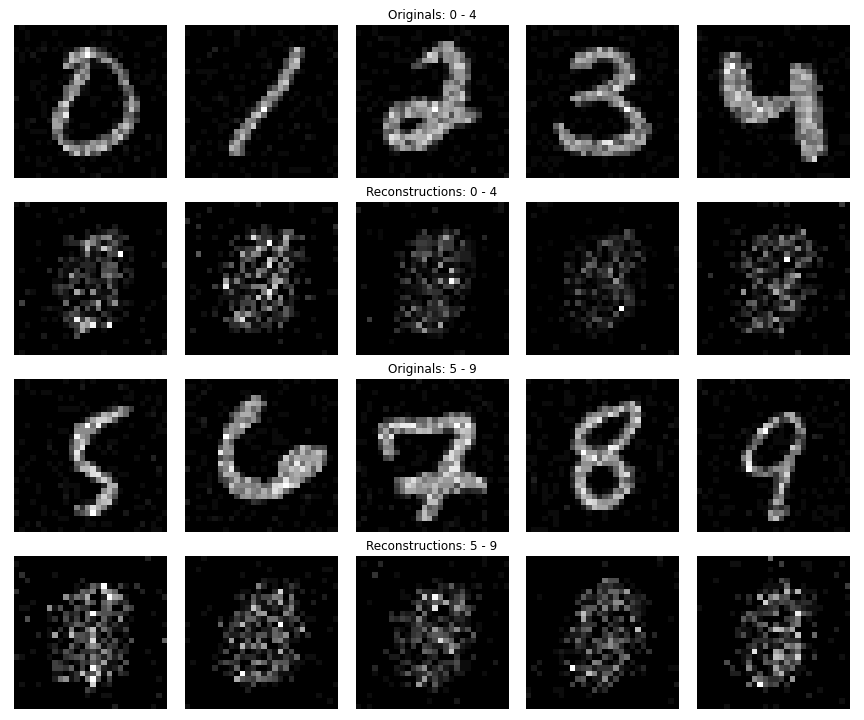
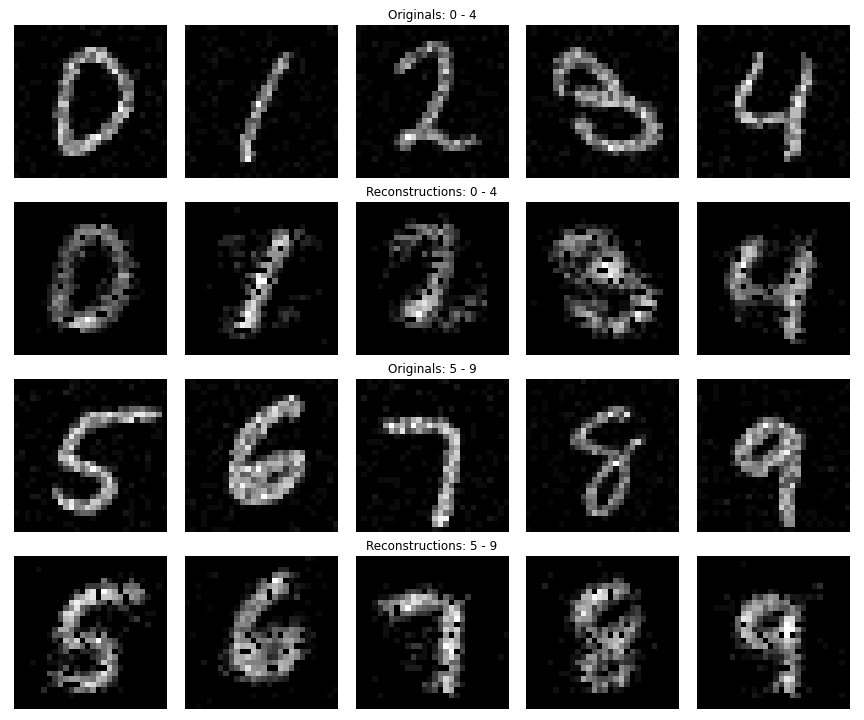
working version

diff --git a/image_to_image.py b/image_to_image.py
@@ -18,85 +18,53 @@ class SAE(nn.Module):
         #define gradient
         spike_grad = surrogate.fast_sigmoid(slope=25)
           
-        #convolution (encoder) - Input size: [8, 1, 28, 28]
         self.conv1 = nn.Conv2d(depth, cp["channels_1"], (cp["filter_1"], cp["filter_1"]))
         self.lif_conv1 = snn.Leaky(beta=beta, spike_grad=spike_grad, threshold = threshold)
-        # conv1 output size: [8, 12, 26, 26]
         self.conv2 = nn.Conv2d(cp["channels_1"], cp["channels_2"], (cp["filter_2"], cp["filter_2"]))
         self.lif_conv2 = snn.Leaky(beta=beta, spike_grad=spike_grad, threshold = threshold)
-        # conv2 output size: [8, 64, 24, 24]  
-
-        # recurrent (latent)
         self.ff_in = nn.Linear(num_conv2, num_rec) # 64x24x24 (12288) -> 100
         self.ff_rec = nn.Linear(num_rec, num_rec)  # 100 -> 100 (same nodes)
         self.net_rec = snn.Leaky(beta=beta, spike_grad=spike_grad, reset_mechanism="zero", threshold = threshold)
-        
-        self.ff_out = nn.Linear(num_rec, num_conv2)
-
-
-        # needs to be [8, 64, 24, 24] format for convTrans
-        # convolution (decoder)
-        
+        self.ff_out = nn.Linear(num_rec, num_conv2)     
         self.deconv2 = nn.ConvTranspose2d(cp["channels_2"], cp["channels_1"], (cp["filter_2"], cp["filter_2"])) 
         self.lif_deconv2 = snn.Leaky(beta=beta, spike_grad=spike_grad, threshold = threshold)
-        # deconv2 output size: [8, 12, 26, 26]  
-        
         self.reconstruction = nn.ConvTranspose2d(cp["channels_1"], depth, (cp["filter_1"], cp["filter_1"]))
         self.lif_reconstruction = snn.Leaky(beta=beta, spike_grad=spike_grad, threshold = threshold)
-        # recontruction should be [8, 3, 28, 28]
-        
+        #self.lif_out = snn.Leaky(beta=beta, spike_grad=spike_grad, threshold = threshold)
         
     def forward(self, x, recorded_vars=None):
-        num_rec, num_conv2, noise_amp, channels_1, conv1_size, channels_2, conv2_size = self.network_params["num_rec"], self.network_params["num_conv2"], self.network_params["noise_amplitude"], self.convolution_params["channels_1"], self.convolution_params["conv1_size"], self.convolution_params["channels_2"], self.convolution_params["conv2_size"]
+        num_rec, noise_amp, channels_2, conv2_size = self.network_params["num_rec"], self.network_params["noise_amplitude"], self.convolution_params["channels_2"], self.convolution_params["conv2_size"]
 
         try:
           x = x.type(torch.cuda.FloatTensor)
         except:
           x = x.type(torch.FloatTensor)
         
-        # Initialize hidden states and outputs at t=0
         batch_size = len(x[0])       
         mem_conv1 = self.lif_conv1.init_leaky()
         mem_conv2 = self.lif_conv2.init_leaky()
         mem_rec = self.net_rec.init_leaky()
         mem_deconv2 = self.lif_deconv2.init_leaky()
         mem_reconstruction = self.lif_reconstruction.init_leaky()
-        spk_conv1 = torch.zeros(batch_size, channels_1, conv1_size, conv1_size, device = self.device)
-        spk_conv2 = torch.zeros(batch_size, channels_2, conv2_size, conv2_size, device = self.device)
-        spk_deconv1 = torch.zeros(batch_size, channels_2, conv2_size, conv2_size, device = self.device)
-        spk_deconv2 = torch.zeros(batch_size, channels_1, conv1_size, conv1_size, device = self.device)
         spk_rec = torch.zeros(batch_size, num_rec, device = self.device)
-        spk_reconstruction = torch.zeros(batch_size, channels_2, conv2_size, conv2_size, device = self.device)
-        
         spk_outs, spk_recs, mem_outs, mem_recs = [], [], [], []
-        
-        # Record latent and output layer
-        if recorded_vars:
-            recorded = {key: [] for key in recorded_vars}
 
         for timestep in range(self.time_params["num_timesteps"]):
-            #print(f"Size of input: {x.shape}")
-            # convolution (encoder) - layer 1
             curr_conv1 = self.conv1(x[timestep])
             spk_conv1, mem_conv1 = self.lif_conv1(curr_conv1, mem_conv1)
             mem_conv1 += noise_amp*torch.randn(mem_conv1.shape, device = self.device)
             
-            # convolution (encoder) - layer 2
             curr_conv2 = self.conv2(spk_conv1)
             spk_conv2, mem_conv2 = self.lif_conv2(curr_conv2, mem_conv2)
             mem_conv2 += noise_amp*torch.randn(mem_conv2.shape, device = self.device)
             
-            #recurrent layer (encoder)
             curr_in = self.ff_in(spk_conv2.view(batch_size, -1))
             curr_rec = self.ff_rec(spk_rec)
             curr_total = curr_in + self.recurrence*curr_rec
             spk_rec, mem_rec = self.net_rec(curr_total, mem_rec) #can set curr_total to curr_in, param in front
-
             mem_rec += noise_amp*torch.randn(mem_rec.shape, device = self.device)
-            
             curr_out = self.ff_out(spk_rec)
-            
-            # convolution (decoder) - undo layer 2
+
             curr_deconv2 = self.deconv2(curr_out.view(curr_out.size(0), channels_2, conv2_size, conv2_size))
             spk_deconv2, mem_deconv2 = self.lif_conv2(curr_deconv2, mem_deconv2)
             mem_deconv2 += noise_amp*torch.randn(mem_deconv2.shape, device = self.device)
@@ -106,23 +74,9 @@ class SAE(nn.Module):
             spk_reconstruction, mem_reconstruction = self.lif_reconstruction(curr_reconstruction, mem_reconstruction)
             mem_reconstruction += noise_amp*torch.randn(mem_reconstruction.shape, device = self.device)
             
-            ''' Noise if needed
-            #mem_latent += noise_amp*torch.randn(mem_latent.shape).to(self.device)
-            '''
-            
             spk_recs.append(spk_rec)
             spk_outs.append(spk_reconstruction)
-            #mem_recs.append(mem_rec)
-            #mem_outs.append(mem_reconstruction)
 
-            if recorded_vars:
-                for key in recorded:
-                    recorded[key].append(locals()[key])
-        
-        if recorded_vars:
-            for key, item in recorded.items():
-                recorded[key] = torch.stack(item)
-            return recorded
         return torch.stack(spk_recs), torch.stack(spk_outs)
     
     
@@ -155,14 +109,9 @@ class CAE(nn.Module):
         # Convolution (encoder) - Input size: [batch_size, depth, 28, 28]
         self.conv1 = nn.Conv2d(depth, cp["channels_1"], (cp["filter_1"], cp["filter_1"]))
         self.conv2 = nn.Conv2d(cp["channels_1"], cp["channels_2"], (cp["filter_2"], cp["filter_2"]))
-        
-        # Recurrent (latent)
         self.ff_in = nn.Linear(num_conv2, num_rec)  # 64x24x24 (12288) -> 100
         self.ff_rec = nn.Linear(num_rec, num_rec)   # 100 -> 100 (same nodes)
-        
         self.ff_out = nn.Linear(num_rec, num_conv2)
-        
-        # Convolution (decoder)
         self.deconv2 = nn.ConvTranspose2d(cp["channels_2"], cp["channels_1"], (cp["filter_2"], cp["filter_2"]))
         self.reconstruction = nn.ConvTranspose2d(cp["channels_1"], depth, (cp["filter_1"], cp["filter_1"]))
         

diff --git a/train_network.py b/train_network.py
@@ -1,4 +1,4 @@
-from helpers import get_poisson_inputs, rmse_count_loss
+from helpers import get_poisson_inputs, rmse_count_loss, nmse_count_loss
 import torch
 import wandb
 from brian2 import *
@@ -11,11 +11,11 @@ def train_network(network, train_loader, test_loader, input_specs, train_specs):
     print(startTime)
     device = train_specs["device"]
     num_epochs = train_specs["num_epochs"]
-    early_stop = train_specs["early_stop"]
     train_logging_freq = ceil(0.1*len(train_loader))
     test_logging_freq = ceil(0.1*len(test_loader))
     print(f"Scaler Value: {train_specs["scaler"]}")
-    loss_fn = rmse_count_loss(lambda_rate=train_specs["lambda_rate"],lambda_weights=None)
+    
+    loss_fn = nmse_count_loss(ntype=train_specs["norm_type"])
     
     optimizer = torch.optim.Adam(network.parameters(), lr=train_specs["lr"], betas=(0.9, 0.999))
     
@@ -30,23 +30,13 @@ def train_network(network, train_loader, test_loader, input_specs, train_specs):
 
         for i, (train_inputs, train_labels) in enumerate(train_loader, 1): #something here takes 30 seconds
             iterTime = datetime.now() 
-            if i == early_stop+1:
-                print("Stopped early")
-                break
-            #print(train_inputs.shape)
-            #train_inputs = get_poisson_inputs(train_inputs, **input_specs).to(device)
+
             train_inputs = train_inputs.transpose(0,1).to(device)
-            
-            #print(train_inputs.shape)
             train_spk_recs, train_spk_outs  = network(train_inputs)
 
-            train_loss = loss_fn(train_spk_recs, train_spk_outs, train_inputs)*train_specs["scaler"]
-            #train_loss = F.mse_loss(torch.sum(train_spk_outs, 0), torch.sum(train_inputs, 0))
-            
+            train_loss = loss_fn(train_spk_outs, train_inputs, train_spk_recs)#*train_specs["scaler"]#/loss_fn(train_spk_outs.sum(0), torch.zeros_like(train_inputs.sum(0)))
             train_loss.backward()
-
             optimizer.step()
-
             train_running_loss += train_loss.item()
             optimizer.zero_grad()
             
@@ -59,26 +49,21 @@ def train_network(network, train_loader, test_loader, input_specs, train_specs):
         print(f"\nTesting - {datetime.now()}")
         with torch.no_grad():
             for j, (test_inputs, test_labels) in enumerate(test_loader, 1):
-                if j == early_stop+1:
-                    print("Stopped early")
-                    break
                 test_inputs = test_inputs.transpose(0,1).to(device)
                 test_spk_recs, test_spk_outs  = network(test_inputs)
-                test_loss = loss_fn(test_spk_recs, test_spk_outs, test_inputs)*train_specs["scaler"]
+                test_loss = loss_fn(test_spk_outs, test_inputs, test_spk_recs)#*train_specs["scaler"]#/loss_fn(test_spk_outs.sum(0), torch.zeros_like(test_inputs.sum(0)))
                 test_running_loss += test_loss.item()
                 
                 if j % test_logging_freq == 0:
                     print(f'[{epoch}/{num_epochs}, {j}/{len(test_loader)}]')
                     epoch_testing_loss.append(test_running_loss/test_logging_freq)
-                    
                     test_running_loss = 0
 
         print(f'Testing Loss: {epoch_testing_loss[-1]:.4f} - Epoch Time: {datetime.now()-epochTime}')
         wandb.log({"Testing Loss": epoch_testing_loss[-1]})
 
     print(f'\nTraining and Testing Finished - Time: {datetime.now() - startTime}')
-    return network, epoch_training_loss, epoch_testing_loss, epoch_training_loss[-1], epoch_testing_loss[-1]#, \
-        #features, all_labs, all_decs, all_orig_ims
+    return network, epoch_training_loss, epoch_testing_loss, epoch_training_loss[-1], epoch_testing_loss[-1]
     
 def train_network_ns(network, train_loader, test_loader, train_specs):
     startTime = datetime.now()
@@ -87,7 +72,7 @@ def train_network_ns(network, train_loader, test_loader, train_specs):
     num_epochs = train_specs["num_epochs"]
     train_logging_freq = ceil(0.1*len(train_loader))
     test_logging_freq = ceil(0.1*len(test_loader))
-    loss_func = torch.nn.MSELoss()
+    loss_fn = nmse_count_loss(ntype=train_specs["norm_type"])
     optimizer = torch.optim.Adam(network.parameters(), lr=train_specs["lr"], betas=(0.9, 0.999))
     
     epoch_training_loss = [];
@@ -103,7 +88,9 @@ def train_network_ns(network, train_loader, test_loader, train_specs):
             iterTime = datetime.now() 
             train_inputs = train_inputs.to(device)
             train_latent, train_outputs  = network(train_inputs)
-            train_loss = loss_func(train_inputs, train_outputs)
+            
+            
+            train_loss = loss_fn(train_outputs, train_inputs)
             train_loss.backward()
             optimizer.step()
             train_running_loss += train_loss.item()
@@ -120,7 +107,7 @@ def train_network_ns(network, train_loader, test_loader, train_specs):
             for j, (test_inputs, test_labels) in enumerate(test_loader, 1):
                 test_inputs = test_inputs.to(device)
                 train_latent,test_outputs  = network(test_inputs)
-                test_loss = loss_func(test_inputs, test_outputs)
+                test_loss = loss_fn(test_outputs, test_inputs)
                 test_running_loss += test_loss.item()
                 
                 if j % test_logging_freq == 0:

diff --git a/main.py b/main.py
@@ -28,7 +28,7 @@ def main():
     torch.backends.cudnn.benchmark = True #TURN OFF WHEN CHANGING ARCHITECTURE    
 
     run = wandb.init()
-    run.name = f"{wandb.config.rate_on} Hz_{wandb.config.num_rec} Hz_{wandb.config.noise}"
+    run.name = f"{wandb.config.rate_on} Hz_{wandb.config.norm_type} Hz_{wandb.config.noise}"
     """## Define network architecutre and parameters"""
     network_params, input_specs, train_specs = {}, {}, {}
     
@@ -50,10 +50,10 @@ def main():
     train_specs["batch_size"] = wandb.config.bs
     train_specs["subset_size"] = wandb.config.subset_size
     train_specs["num_workers"] = wandb.config.num_workers
+    train_specs["norm_type"] = wandb.config.norm_type
     num_rec = wandb.config.num_rec
     
     train_specs["scaler"] = abs(1/((wandb.config.rate_on-wandb.config.rate_off)*(0.001*input_specs["total_time"]/ms))) if wandb.config.rate_on != wandb.config.rate_off else 100000
-    
     
     noise = wandb.config.noise
     recurrence = wandb.config.recurrence
@@ -214,7 +214,7 @@ def main():
     fig.tight_layout()
     fig.savefig("figures/rasters.png") 
     
-    umap_file = umap_plt("./datafiles/"+run.name+".csv")
+    umap_file, sil_score, db_score = umap_plt("./datafiles/"+run.name+".csv")
     
     wandb.log({"Test Loss": final_test_loss,
                 "Results Grid": wandb.Image("figures/result_summary.png"),
@@ -222,8 +222,6 @@ def main():
                 "Spike Animation": wandb.Video(f"figures/spike_mnistrec_{labels}.gif", fps=4, format="gif"),
                 "Raster": wandb.Image("figures/rasters.png")
                 })
-    
-    
     
     del network, train_loss, test_loss, final_train_loss, final_test_loss, \
         features, all_labs, all_decs, all_orig_ims, \
@@ -254,12 +252,13 @@ if __name__ == '__main__':
                           "rate_on": {'values': [75]},
                           "rate_off": {'values': [1]},
                           "num_workers": {'values': [0]},
-                          "num_rec": {'values': [100]}
+                          "num_rec": {'values': [100]},
+                          "norm_type": {'values': ["norm"]}
                           }
           }
   else:
       sweep_config = { #REMEMBER TO CHANGE RUN NAME
-          'name': f'Code Layer Neuron Count (25-50) {date}',
+          'name': f'Neuron Count Analysis (2 - 36864) {date}',
           'method': 'grid',
           'metric': {'name': 'Test Loss',
                       'goal': 'minimize'   
@@ -269,11 +268,12 @@ if __name__ == '__main__':
                           'epochs': {'values': [9]},
                           "subset_size": {'values': [10]},
                           "recurrence": {'values': [1]}, #1, 0.1, 0.5, 0, 1.25, 1.5, 1.75, 2
-                          "noise": {'values': [0]},
-                          "rate_on": {'values': [75]}, # 25, 50, 75, 100, 125
+                          "noise": {'values': [0]}, #0, 0.1, 0.2, 0.3, 0.4, 0.5, 0.6, 0.7, 0.8, 0.9, 1.0
+                          "rate_on": {'values': [75]},
                           "rate_off": {'values': [1]},
                           "num_workers": {'values': [0]},
-                          "num_rec": {'values': [25, 30, 35, 40, 45, 50]} #
+                          "num_rec": {'values': [2, 100, 1000, 10000, 20000, 36864]},
+                          "norm_type": {'values': ["norm"]} #
                           }
           }
   

diff --git a/main_ns.py b/main_ns.py
@@ -28,7 +28,7 @@ def main_ns():
     torch.backends.cudnn.benchmark = True #TURN OFF WHEN CHANGING ARCHITECTURE    
 
     run = wandb.init()
-    run.name = f"{wandb.config.rate_on} Hz_{wandb.config.num_rec} Hz_{wandb.config.noise}"
+    run.name = f"{wandb.config.rate_on} Hz_{wandb.config.norm_type} Hz_{wandb.config.noise}"
     """## Define network architecutre and parameters"""
     network_params, input_specs, train_specs, convolution_params = {}, {}, {}, {}
     
@@ -56,6 +56,8 @@ def main_ns():
     train_specs["batch_size"] = wandb.config.bs
     train_specs["subset_size"] = wandb.config.subset_size
     train_specs["num_workers"] = wandb.config.num_workers
+    
+    train_specs["norm_type"] = wandb.config.norm_type
     num_rec = wandb.config.num_rec
     
     train_specs["scaler"] = abs(1/((wandb.config.rate_on-wandb.config.rate_off)*(0.001*input_specs["total_time"]/ms))) if wandb.config.rate_on != wandb.config.rate_off else 100000
@@ -190,7 +192,7 @@ def main_ns():
     fig, axs = plt.subplots()
     axs.imshow(img_spk_outs, cmap='grey')
           
-    umap_file = umap_plt("./datafiles/"+run.name+".csv")
+    umap_file, sil_score, db_score = umap_plt("./datafiles/"+run.name+".csv")
     
     wandb.log({"Test Loss": final_test_loss,
                 "Results Grid": wandb.Image("figures/result_summary.png"),
@@ -227,12 +229,13 @@ if __name__ == '__main__':
                           "rate_on": {'values': [75]},
                           "rate_off": {'values': [1]},
                           "num_workers": {'values': [0]},
-                          "num_rec": {'values': [100]}
+                          "num_rec": {'values': [100]},
+                          "norm_type": {'values': ["norm", "range", "mean", None]}
                           }
           }
   else:
       sweep_config = { #REMEMBER TO CHANGE RUN NAME
-          'name': f'NSCAE Baseline Run {date}',
+          'name': f'ns_Assessing different Normalisation - No Scaler {date}',
           'method': 'grid',
           'metric': {'name': 'Test Loss',
                       'goal': 'minimize'   
@@ -246,7 +249,8 @@ if __name__ == '__main__':
                           "rate_on": {'values': [75]},
                           "rate_off": {'values': [1]},
                           "num_workers": {'values': [0]},
-                          "num_rec": {'values': [100]} #
+                          "num_rec": {'values': [100]},
+                          "norm_type": {'values': ["norm", "range", "mean", None]} #
                           }
           }
   
